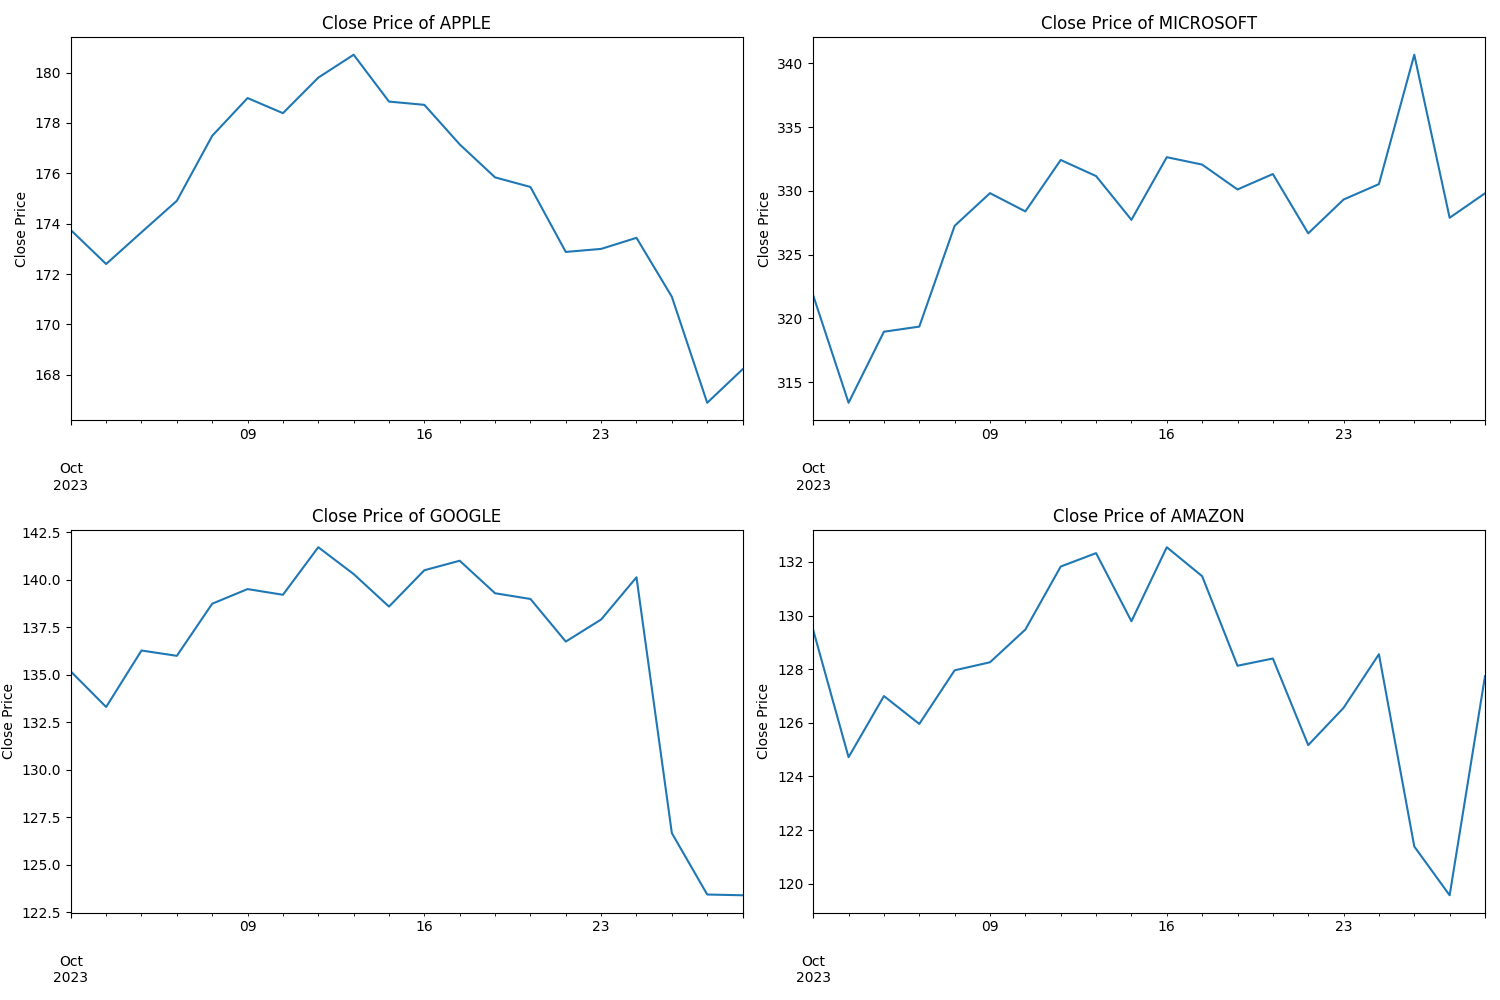
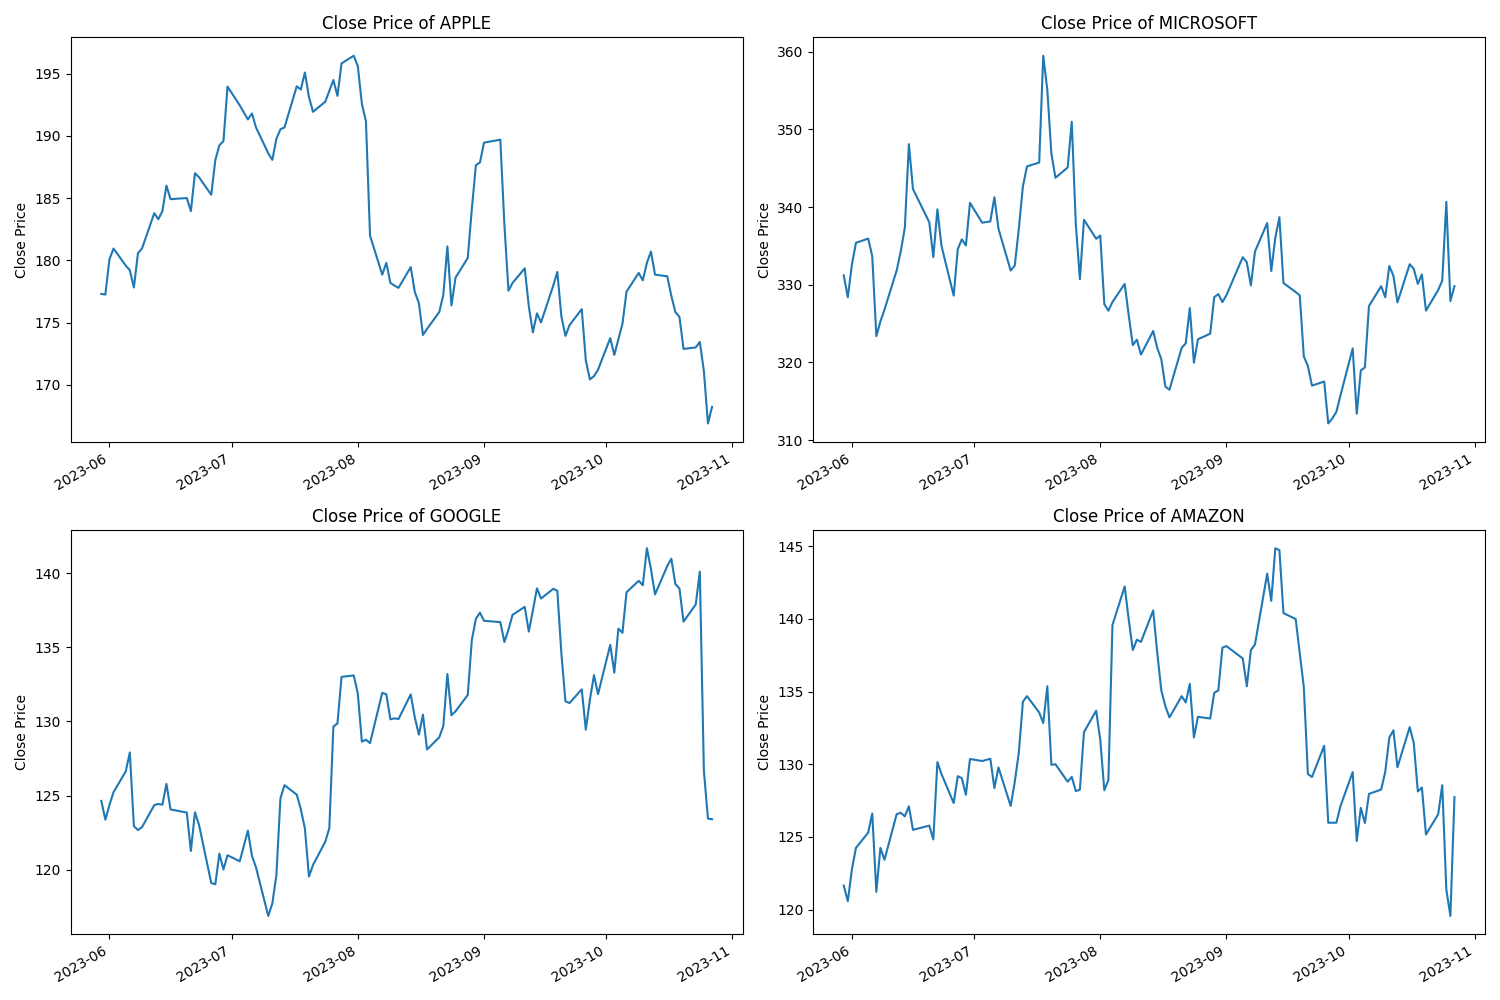
Added single_lstm.py, modified main and data_processing

diff --git a/single_lstm.py b/single_lstm.py
@@ -1,0 +1,96 @@
+from pandas_datareader import data as pdr
+import matplotlib.pyplot as plt
+import yfinance as yf
+import pandas as pd
+import numpy as np 
+import seaborn as sns
+from datetime import datetime
+from sklearn.preprocessing import MinMaxScaler # for data scaling
+from keras.models import Sequential
+from keras.layers import Dense, LSTM
+
+def get_df_singular():
+    # Get data from Yahoo Finance
+    yf.pdr_override()
+
+    data = {}
+
+    stock = 'AAPL'
+    company_name = 'APPLE'
+    end = datetime(2022, 10, 30)
+    start = datetime(2022, 5, 30)
+
+    data[stock] = yf.download(stock, start, end)
+    
+
+    company_list = [data['AAPL']]
+
+    for company, com_name in zip(company_list, company_name):
+        company["company_name"] = com_name
+        
+    df = pd.concat(company_list, axis=0)
+    return df
+
+
+
+def modify_df_singular(df, training_dataset_percentage, x_train_len):
+    # Create a new dataframe with only the 'Close' column
+    data = df.filter(['Close'])
+    dataset = data.values
+    training_data_len = int(np.ceil(len(dataset) * training_dataset_percentage))
+
+    # Scale the data using MinMaxScaler
+    scaler = MinMaxScaler(feature_range=(0, 1))
+    scaled_data = scaler.fit_transform(dataset)
+
+    training_data = scaled_data[0:training_data_len, :]
+    x_train = []
+    y_train = []
+
+    for i in range(x_train_len, training_data_len):
+        x_train.append(training_data[i - x_train_len:i, 0])
+        y_train.append(training_data[i, 0])
+        
+    x_train, y_train = np.array(x_train), np.array(y_train)
+
+    # Reshape the data
+    x_train = np.reshape(x_train, (x_train.shape[0], x_train.shape[1], 1))
+
+    # Create the testing data set
+    # Create a new array containing scaled values from index 1543 to 2002 
+    test_data = scaled_data[training_data_len - 60: , :]
+    # Create the data sets x_test and y_test
+    x_test = []
+    y_test = dataset[training_data_len:, :]
+    for i in range(60, len(test_data)):
+        x_test.append(test_data[i-60:i, 0])
+        
+    # Convert the data to a numpy array
+    x_test = np.array(x_test)
+
+    # Reshape the data
+    x_test = np.reshape(x_test, (x_test.shape[0], x_test.shape[1], 1 ))
+
+    return x_train, y_train, x_test, y_test
+
+
+def single_lstm_model(x_train, y_train, x_test, y_test):
+    model = Sequential()
+    model.add(LSTM(128, return_sequences=True, input_shape= (x_train.shape[1], 1)))
+    model.add(LSTM(64, return_sequences=False))
+    model.add(Dense(25))
+    model.add(Dense(1))
+
+    # Compile the model
+    model.compile(optimizer='adam', loss='mean_squared_error')
+
+    # Train the model
+    model.fit(x_train, y_train, batch_size=1, epochs=1)
+ 
+    return model
+
+
+
+
+
+

diff --git a/data_processing.py b/data_processing.py
@@ -7,7 +7,6 @@ import seaborn as sns
 from datetime import datetime
 from sklearn.preprocessing import MinMaxScaler # for data scaling
 
-
 def get_df(stock_list, company_name, start, end):
     # Get data from Yahoo Finance
     yf.pdr_override()
@@ -26,7 +25,6 @@ def get_df(stock_list, company_name, start, end):
     df = pd.concat(company_list, axis=0)
     return (df, company_list)
 
-
 def create_graph_close(company_name, company_list):
     plt.figure(figsize=(15, 10))
     plt.subplots_adjust(top=1.25, bottom=1.2)
@@ -42,6 +40,20 @@ def create_graph_close(company_name, company_list):
     
     plt.savefig('graph_close_price.png') # Save graph as png file
 
+def create_graph_comp(company_name, company_list):
+    plt.figure(figsize=(15, 10))
+    plt.subplots_adjust(top=1.25, bottom=1.2)
+
+    for i, company in enumerate(company_list, 1):
+        plt.subplot(2, 2, i)
+        company['Close'].plot()
+        plt.ylabel('Close Price')
+        plt.xlabel(None)
+        plt.title(f"Close Price of {company_name[i - 1]}")
+        
+    plt.tight_layout()
+    
+    plt.savefig('graph_close_price.png') # Save graph as png file
 
 def modify_df(df, training_dataset_percentage):
     # Create a new dataframe with only the 'Close' column
@@ -49,8 +61,8 @@ def modify_df(df, training_dataset_percentage):
     dataset = data.values
     training_data_len = int(np.ceil(len(dataset) * training_dataset_percentage))
 
-    # Scale the data
-    scaler = MinMaxScaler(feature_range = (0,1))
+    # Scale the data using MinMaxScaler
+    scaler = MinMaxScaler(feature_range=(0, 1))
     scaled_data = scaler.fit_transform(dataset)
 
     return scaled_data, training_data_len

diff --git a/main.py b/main.py
@@ -1,20 +1,42 @@
 from data_processing import get_df
 from data_processing import create_graph_close
 from data_processing import modify_df
+from data_processing import create_graph_comp
+
+from single_lstm import get_df_singular
+from single_lstm import modify_df_singular
+from single_lstm import single_lstm_model
+
 from datetime import datetime
 
-def main():
+
+def singular_model():
+    df = get_df_singular()
+    x_train, y_train, x_test, y_test = modify_df_singular(df, 0.8, 60) # training_dataset_percentage = 0.8, x_train_len = 60
+    print(x_test.shape)
+    #model = single_lstm_model(x_train, y_train, x_test, y_test)
+
+
+
+def data_analysis(): 
     stock_list = ['AAPL', 'MSFT', 'GOOG', 'AMZN']
     company_name = ['APPLE', 'MICROSOFT', 'GOOGLE', 'AMAZON']
     end = datetime(2023, 10, 30)
-    start = datetime(2023, 9, 30)
+    start = datetime(2023, 5, 30)
 
     df, company_list = get_df(stock_list, company_name, start, end)
 
     create_graph_close(company_name, company_list)
 
-    new_data, training_data_len = modify_df(df, 0.8) # training_dataset_percentage = 0.8
+    create_graph_comp()
 
+    
+def multi_model():
+    data_analysis()
+
+def main():
+    #singular_model()
+    multi_model()
 
 if __name__ == '__main__':
     main()
